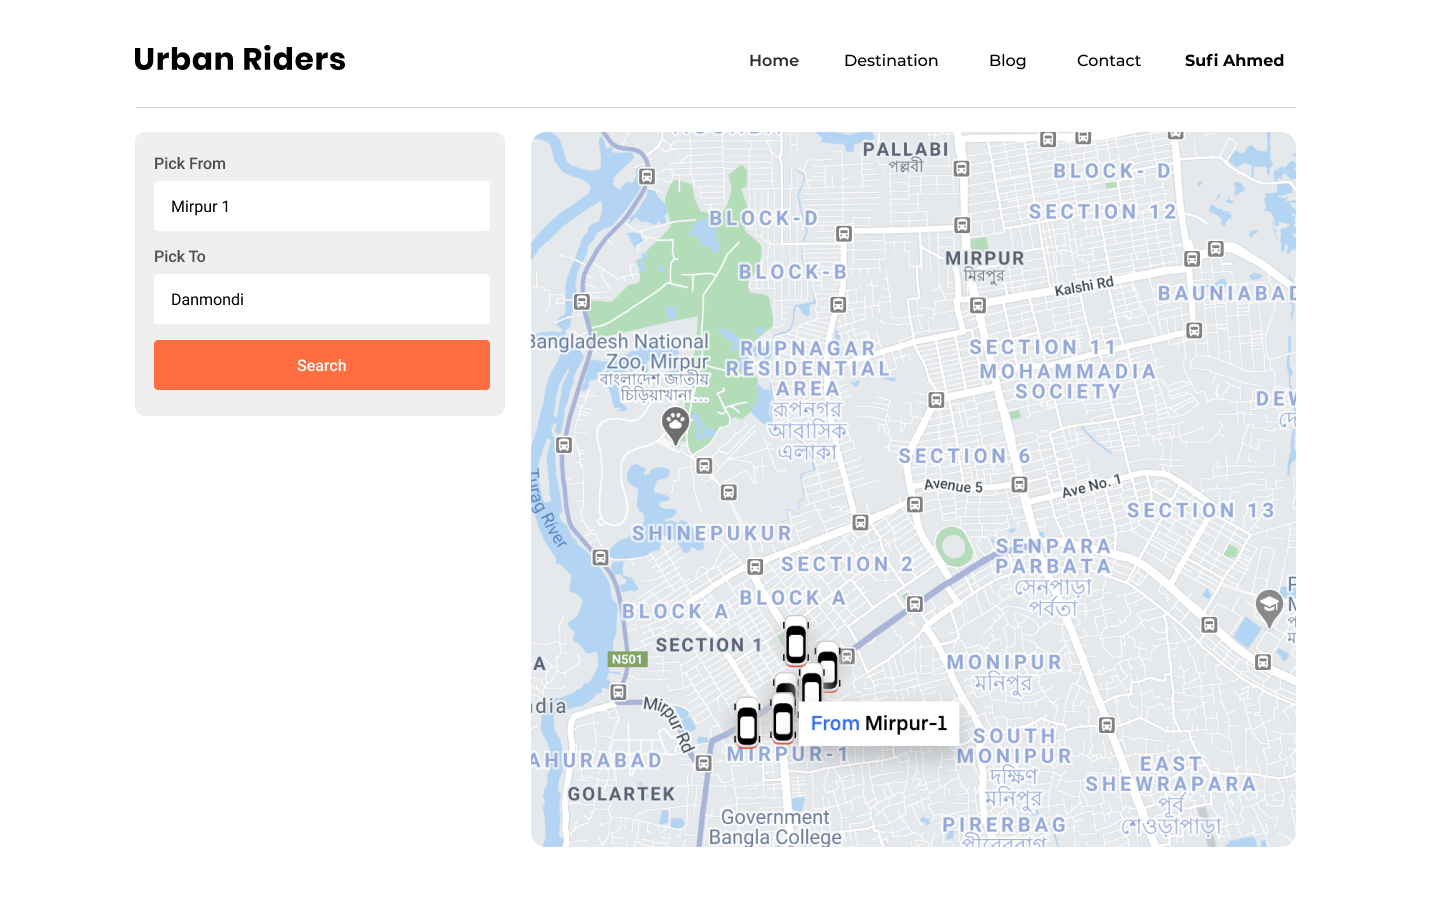
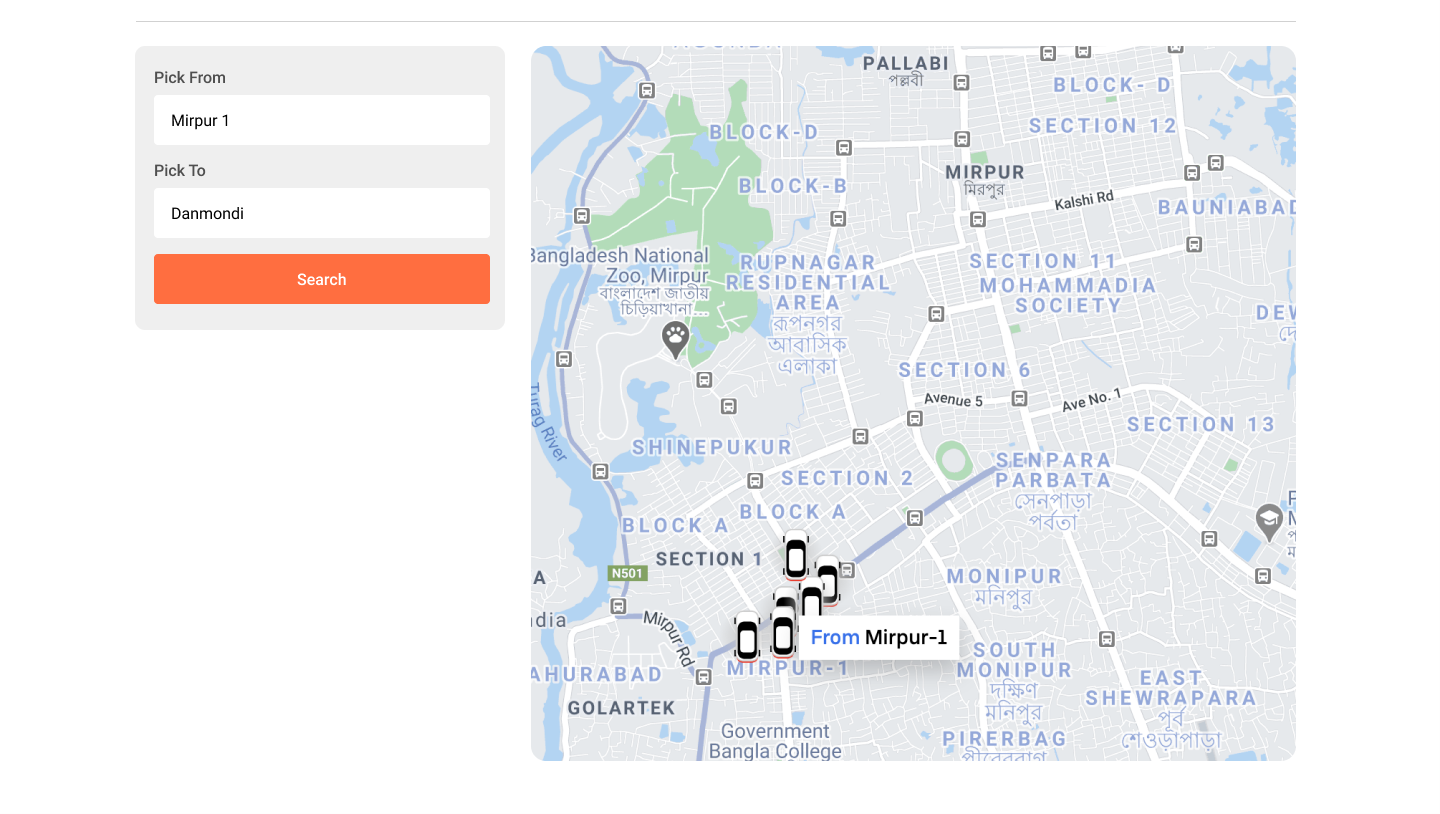
m

Changed region(s): [[0.0938, 0.0307, 0.9062, 0.9521], [0.875, 0.3686, 0.9062, 0.5221]]

diff --git a/src/components/Destination/Destination.js b/src/components/Destination/Destination.js
@@ -1,23 +1,18 @@
 import React from 'react';
-import logo from '../../images/images/Map.png';
+import logo from '../../images/images/5 Search result.png';
 // import { Map, InfoWindow, Marker, GoogleApiWrapper } from 'google-maps-react';
 
 
 const Destination = () => {
+
     return (
         <div>
-            {/* <Map google={this.props.google} zoom={14}>
-
-                <Marker onClick={this.onMarkerClick}
-                    name={'Current location'} />
-
-                <InfoWindow onClose={this.onInfoWindowClose}>
-                    
-                </InfoWindow>
-            </Map> */}
+            <h1>Let's go</h1>
             <img src={logo} alt="Search Result" />
         </div>
     );
+
+
 };
 
 export default Destination;

diff --git a/src/components/Book/Book.js b/src/components/Book/Book.js
@@ -5,10 +5,11 @@ import './Book.css'
 import logo from '../../images/images/Map.png';
 
 const Book = () => {   
-    const {vehicleType} = useParams();
+    const { vehicleType, imgUrl } = useParams();
     return (
         <div style={{textAlign: 'center'}}>
             <h1>Let's book a {vehicleType} to go</h1>
+            <img src={imgUrl} alt={vehicleType}/>
             <form action="">
                 <input placeholder="From" type="text" name="" id=""/><br/>
                 <input placeholder="To" type="text" name="" id=""/><br/>

diff --git a/src/components/Room/Room.js b/src/components/Room/Room.js
@@ -40,7 +40,7 @@ export default function Room({room}){
   const classes = useStyles();
   const history = useHistory()
     const handleBook = (vehicleType) => {
-        history.push(`/book/${vehicleType}`);
+      history.push(`/book/${vehicleType}`);
     }
   return (
     <Grid >

diff --git a/src/components/Header/Header.css b/src/components/Header/Header.css
@@ -1,11 +1,10 @@
 .header{
     border: 4px solid black;
-    height: 300px;
+    height: auto;
     background-position: center center;
     background-size: 100% 100%;
 }
 .header .logo{
-    height: 50px;
 }
 .title-container{
     color: rgba(255, 255, 255, 0.699);
